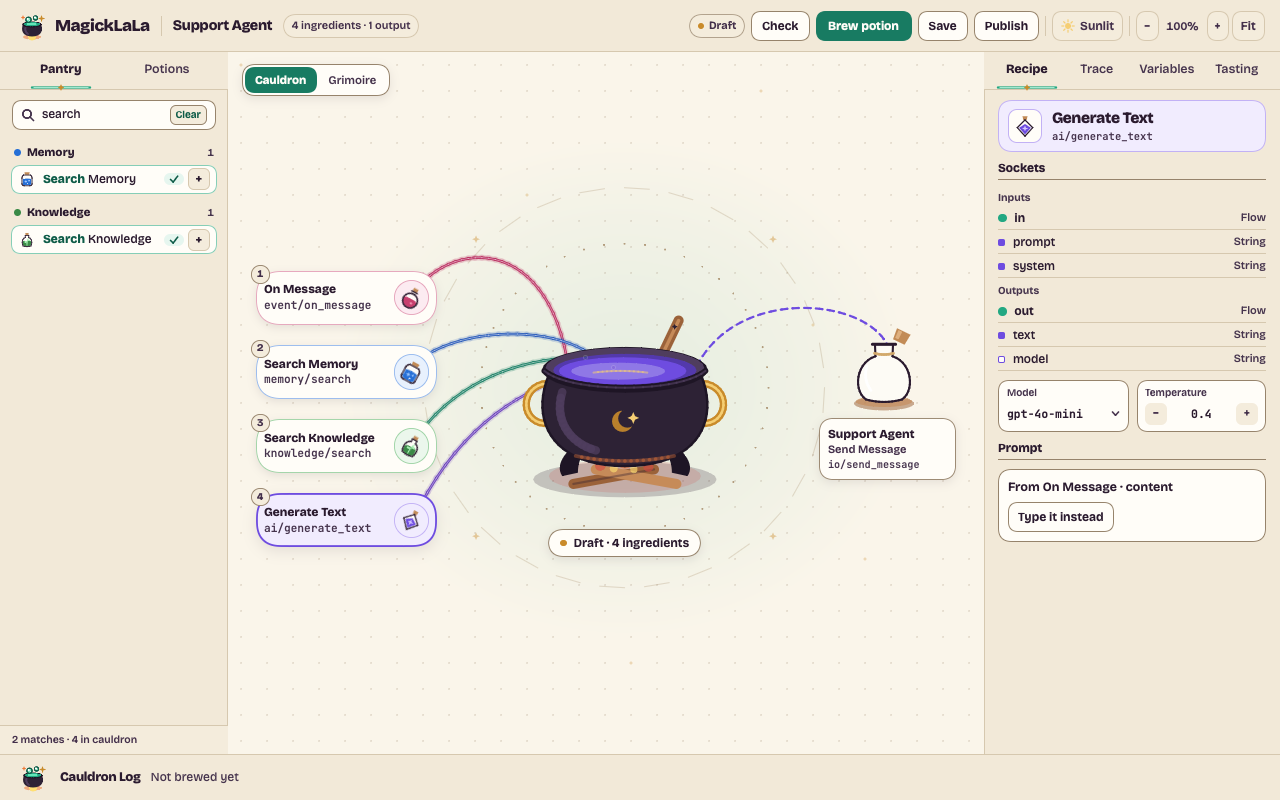
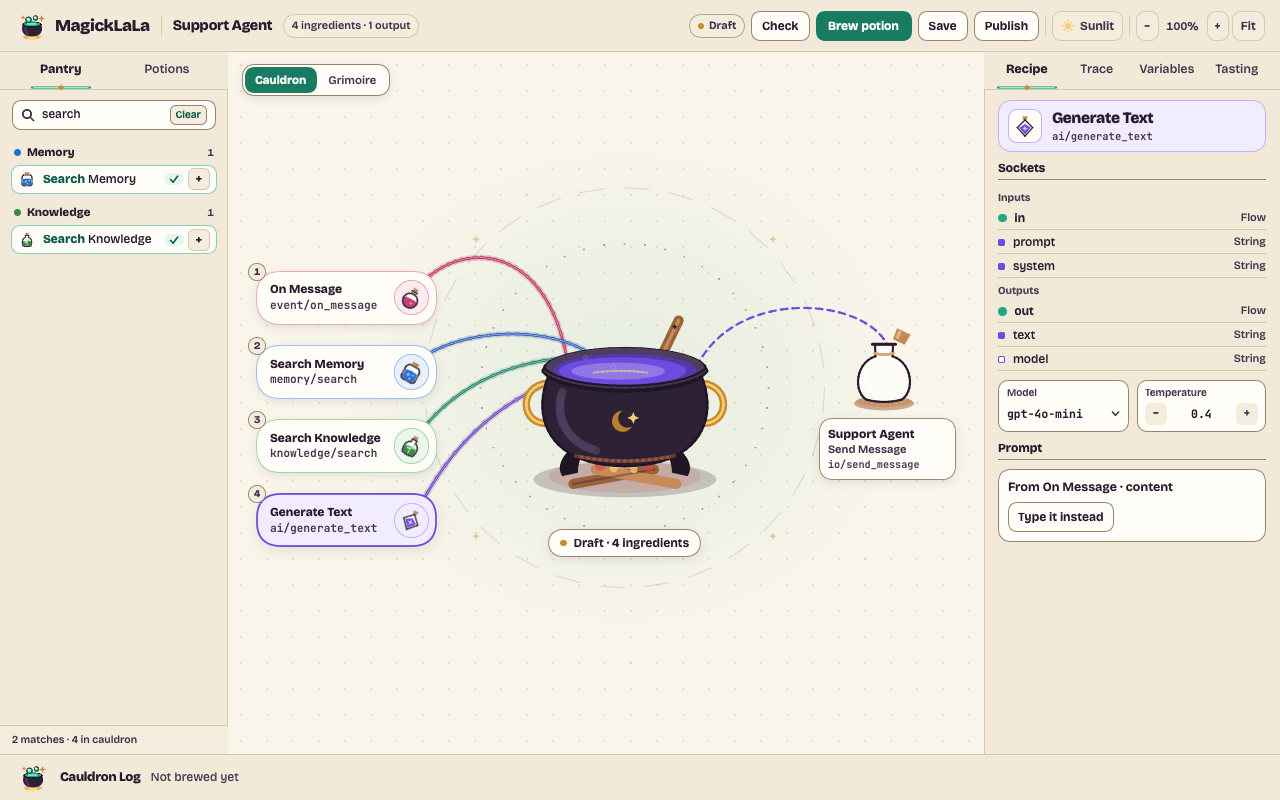
test(e2e),fix(canvas): Grimoire cards keep every socket name at 64% zoom and only drop them below 60% where rows get too short; screenshots regenerated

diff --git a/e2e/tests/studio-interactive.e2e.ts b/e2e/tests/studio-interactive.e2e.ts
@@ -1273,6 +1273,7 @@ test('Every pour, name and count reads true: twelve ingredients land on twelve r
     expect(report.releaseRows).toMatch(/v1 4 ingredients/);
     expect(report.loneChip).toMatch(/Brewed/);
     expect(report.grimoireAtHalf).toEqual([]);
+    expect(report.grimoireNamesAt64).toEqual([]);
   } finally {
     await rm(dir, { recursive: true, force: true });
   }

diff --git a/crates/magicklala-studio/examples/studio_probe.rs b/crates/magicklala-studio/examples/studio_probe.rs
@@ -3543,6 +3543,16 @@ fn geometry_and_polish(db_path: &Path) -> Result<serde_json::Value, String> {
             grim_issues.push(format!("{} labels collide", card.id.0));
         }
     }
+    grim.update(|app, _| app.canvas.camera.zoom = 0.64);
+    grim.frame(3.0);
+    let mut grim_bare = Vec::new();
+    for card in grim.state.canvas.nodes.clone() {
+        let lines = text_lines_under(&grim, &format!("node-{}", card.id.0));
+        let shown = card.inputs.iter().chain(card.outputs.iter()).filter(|socket| lines.iter().any(|(line, _)| line == &socket.name)).count();
+        if shown < card.inputs.len() + card.outputs.len() {
+            grim_bare.push(format!("{} shows {shown} of {} socket names", card.id.0, card.inputs.len() + card.outputs.len()));
+        }
+    }
 
     Ok(json!({
         "dozen": { "landings": landings.len(), "pours": pours.len(), "ribbonCrossings": dozen_crossings, "pourCrossings": pour_overlaps, "lanes": plan.lanes.is_some() },
@@ -3558,6 +3568,7 @@ fn geometry_and_polish(db_path: &Path) -> Result<serde_json::Value, String> {
         "releaseRows": release_rows,
         "loneChip": lone_chip,
         "grimoireAtHalf": grim_issues,
+        "grimoireNamesAt64": grim_bare,
     }))
 }
 fn pull_middle() -> Result<serde_json::Value, String> {

diff --git a/crates/magicklala-canvas/src/view.rs b/crates/magicklala-canvas/src/view.rs
@@ -520,7 +520,7 @@ pub fn grimoire_lanes(state: &CanvasState) -> Vec<(magicklala_graph::WireId, i8)
     lanes
 }
 
-const DETAIL_ZOOM: f32 = 0.75;
+const DETAIL_ZOOM: f32 = 0.6;
 
 fn bottle_hex_pill(card: &NodeCardModel, p: &HearthPalette) -> Option<El> {
     let caption = match card.inputs.iter().find(|socket| socket.flagged) {
